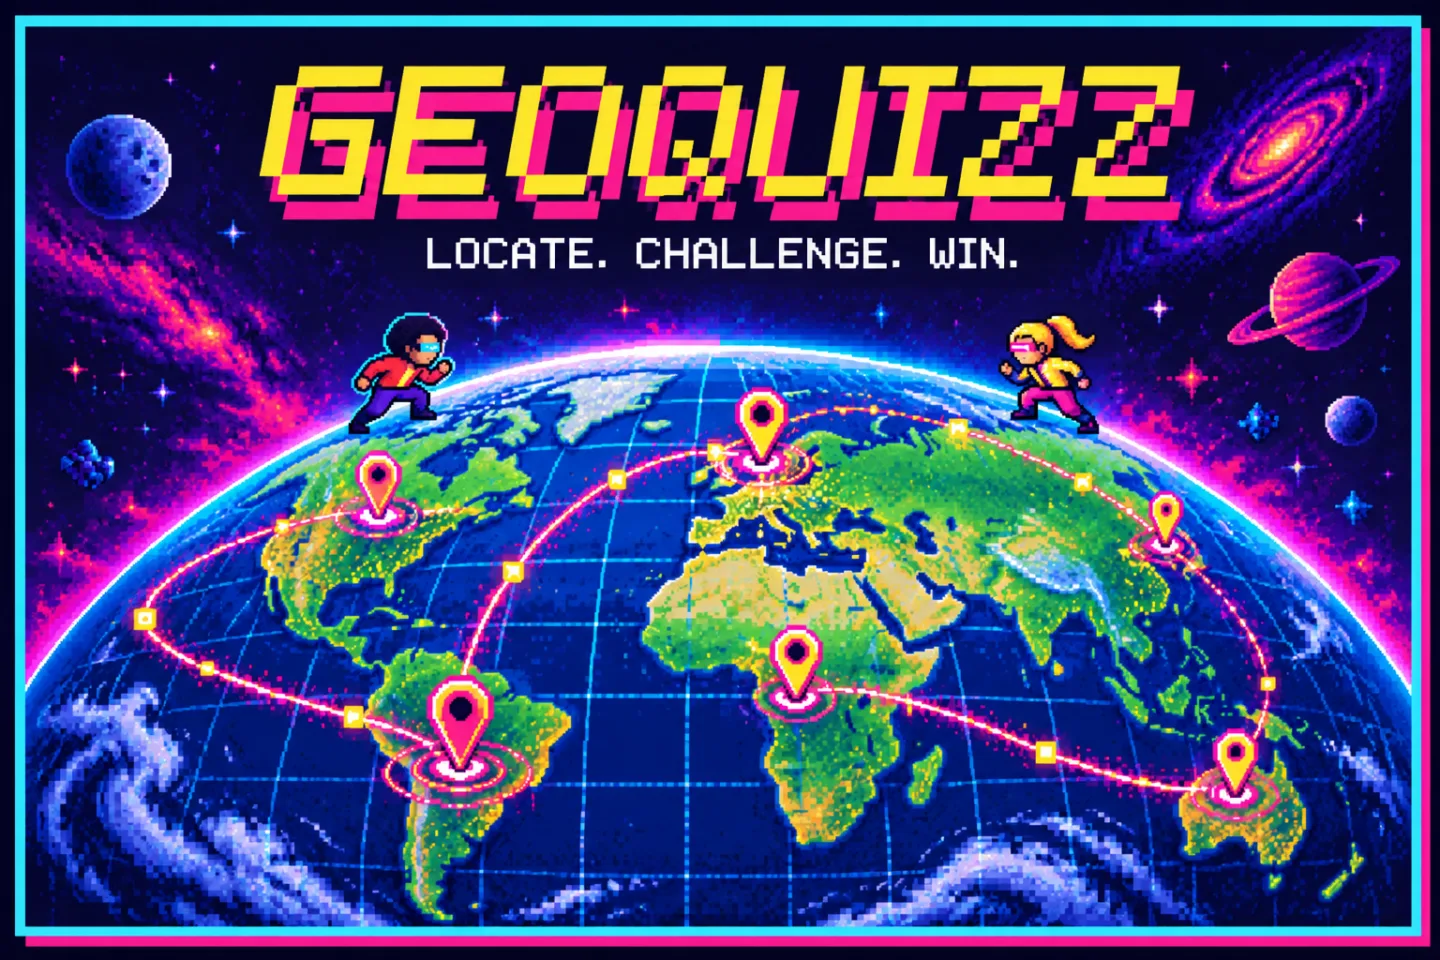
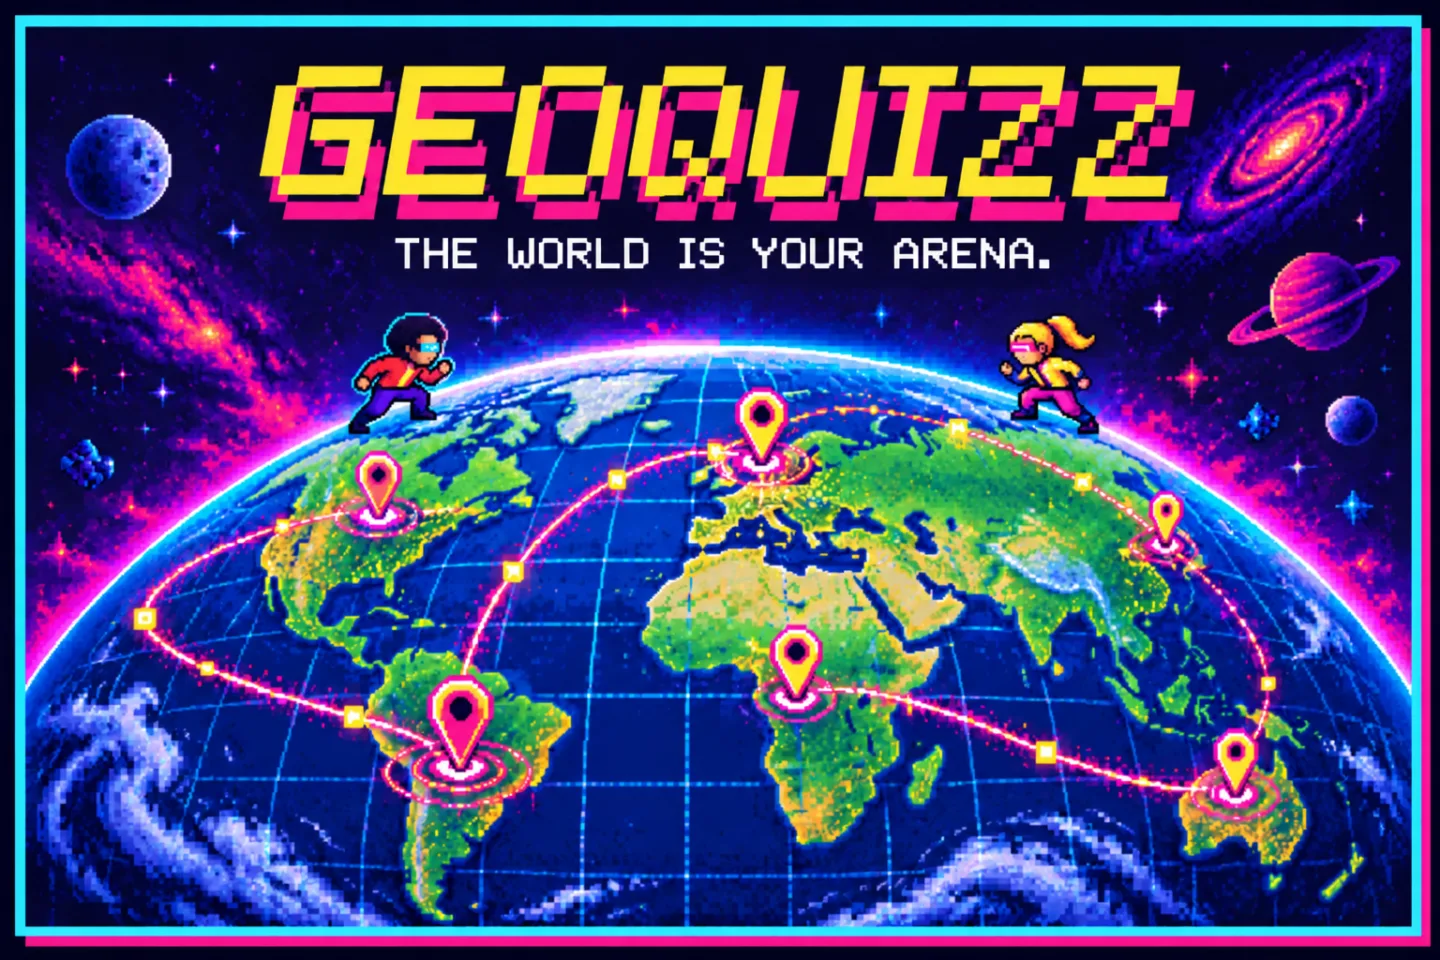
Bread hand-over timing, new splash art, phones sideways
- Bread: binding one block ahead failed when Bread had not reached that
  block yet ("block header for block 85053 not found"). Blocks come every
  3.00 s (measured, ±40 ms) and Bread anchors at the height of its
  pre-approval sync, ~2-3 s after the request arrives, right on a block
  edge. The app now spots each new block with a light header poll, binds
  the next block and hands the request over ~2 s into the current one
  (1 s earlier when it ships notes), so Bread's sync lands mid-block. A
  delay that landed is kept per browser; otherwise 1 s, then 2.7 s.
- Splash art: both heroes now read "The world is your arena." (from
  updated-splash-screens); "Locate. Challenge. Win." stays the 1P title.
- Phones held upright get "Turn your phone sideways: the map is much
  easier to play." Held sideways, the play screen keeps the map beside a
  slim HUD and fits the screen height without scrolling.

60 vitest.

Claude-Session: https://claude.ai/code/session_01QYyiCY9B277ojxnNJRZLyN

diff --git a/web/src/lib/bread.ts b/web/src/lib/bread.ts
@@ -25,7 +25,7 @@ import { shotStorage, encodeStorage, type AccountFelts, type ChallengeStorage } 
 import { SHOT_DEADLINE_INDEX } from "./notes";
 import { randomSeed, type Word4 } from "./quiz";
 import { packAnswers, type Answer } from "./rules";
-import { fmtGeocoin, LAG_CANDIDATES, learnBreadOffset, nextLagIndex, parseAnchorMismatch, submitWithRetry } from "./flow";
+import { fmtGeocoin, learnBreadOffset, nextDelayIndex, parseAnchorMismatch, SEND_DELAYS_MS, submitWithRetry } from "./flow";
 import authVectors from "../../../rules/auth_vectors.json";
 
 /** What the app needs from a signer: Bread's adapter hook, or the local test wallet. */
@@ -62,22 +62,12 @@ export function selfCheckAuthArgs(): boolean {
   });
 }
 
-/**
- * A request builder carrying the auth args Bread's multisig needs, bound to the current tip.
- *
- * Bread anchors the request at ITS sync height when it receives it and rejects the request if
- * that block differs from the bound block (`SummaryAnchorMismatchError`). Testnet makes a block
- * every ~3 s, so the bound block has to be as fresh as possible: sync first, bind the result,
- * submit at once. `submit` retries with a fresh block when Bread still reports the mismatch.
- */
-async function breadBuilder(client: Client, blockOffset: number): Promise<{ builder: TransactionRequestBuilder; boundBlock: number }> {
-  const feeFaucet = await client.feeFaucetId();
-  const boundBlock = (await waitForFreshBlock(client)) + blockOffset;
+/** A request builder carrying the auth args Bread's multisig needs, bound to `boundBlock`. */
+function breadBuilder(boundBlock: number, feeFaucet: AccountId): TransactionRequestBuilder {
   const { elements, commitment } = multisigAuthArgs(boundBlock, randomSeed(), feeFaucet);
   const advice = new AdviceMap();
   advice.insert(commitment, feltArray(elements));
-  const builder = new TransactionRequestBuilder().withAuthArg(commitment).extendAdviceMap(advice).withBlockNumbers([boundBlock]);
-  return { builder, boundBlock };
+  return new TransactionRequestBuilder().withAuthArg(commitment).extendAdviceMap(advice).withBlockNumbers([boundBlock]);
 }
 
 /** The commitment of block `n` as the node reports it (null when the node has no such block yet). */
@@ -120,42 +110,48 @@ export async function waitFor(client: Client, runExclusive: <T>(fn: () => Promis
 
 export type Submitted = { txId: string; noteIds: string[] };
 
+const sleep = (ms: number) => new Promise((r) => setTimeout(r, ms));
+
 /**
- * Syncs until the chain tip advances (or ~6 s pass) and returns the new tip, so the request is
- * bound at the very start of a block's ~3 s lifetime: Bread, which anchors at its own sync height
- * a second or two later, then sees the same block.
+ * Waits for the node's tip to move and returns the new block and when it was seen. A header call
+ * (~60 ms) every 100 ms sees a block within ~0.15 s of its production; testnet makes one every 3 s.
  */
-async function waitForFreshBlock(client: Client): Promise<number> {
-  const start = (await client.syncState()).blockNum();
-  const deadline = Date.now() + 6_000;
-  while (Date.now() < deadline) {
-    await new Promise((r) => setTimeout(r, 250));
-    const now = (await client.syncState()).blockNum();
-    if (now > start) return now;
+async function nextBlock(): Promise<{ block: number; seenAt: number }> {
+  const rpc = new RpcClient(endpoint());
+  try {
+    const start = (await rpc.getBlockHeaderByNumber(undefined)).blockNum();
+    const deadline = Date.now() + 6_000;
+    while (Date.now() < deadline) {
+      await sleep(100);
+      const block = (await rpc.getBlockHeaderByNumber(undefined)).blockNum();
+      if (block > start) return { block, seenAt: Date.now() };
+    }
+    return { block: start, seenAt: Date.now() };
+  } finally {
+    rpc.free();
   }
-  return start;
 }
 
 const ANCHOR_RETRIES = 10;
 
-// The bind lag that last worked in this browser (an index into LAG_CANDIDATES); see flow.ts.
-const LAG_KEY = "gq:bread-lag";
-let lagIndex = (() => {
+// The hand-over delay that last worked in this browser (an index into SEND_DELAYS_MS); see flow.ts.
+const DELAY_KEY = "gq:bread-send-delay";
+let delayIndex = (() => {
   try {
-    return (Number(localStorage.getItem(LAG_KEY)) || 0) % LAG_CANDIDATES.length;
+    return (Number(localStorage.getItem(DELAY_KEY)) || 0) % SEND_DELAYS_MS.length;
   } catch {
     return 0;
   }
 })();
-let lagPending = false;
+let delayPending = false;
 
-/** After a Bread request: did its effect show on chain? Sets the bind lag for the next one. */
+/** After a Bread request: did its effect show on chain? Sets the hand-over delay for the next one. */
 export function reportBreadOutcome(landed: boolean) {
-  if (!lagPending) return;
-  lagPending = false;
-  lagIndex = nextLagIndex(lagIndex, landed);
+  if (!delayPending) return;
+  delayPending = false;
+  delayIndex = nextDelayIndex(delayIndex, landed);
   try {
-    localStorage.setItem(LAG_KEY, String(lagIndex));
+    localStorage.setItem(DELAY_KEY, String(delayIndex));
   } catch {
     /* private window */
   }
@@ -188,16 +184,20 @@ async function submit(
     return requestTransaction(Transaction.createCustomTransaction(address, address, await build(builder), inputNoteIds, importNotes));
   }
   let lastBound = 0;
-  // Bread imports shipped notes before it syncs: one more block
-  const lag = (importNotes?.length ? 1 : 0) + LAG_CANDIDATES[lagIndex];
+  const feeFaucet = await client.feeFaucetId();
+  // Bread imports shipped notes before it syncs: hand over ~1 s earlier
+  const delay = Math.max(0, SEND_DELAYS_MS[delayIndex] - (importNotes?.length ? 1000 : 0));
   const txId = await submitWithRetry(
     async (offset, attempt) => {
       onSubmitAttempt(attempt, ANCHOR_RETRIES);
-      const { builder, boundBlock } = await breadBuilder(client, offset);
+      const { block, seenAt } = await nextBlock();
+      const boundBlock = block + offset;
       lastBound = boundBlock;
-      return requestTransaction(Transaction.createCustomTransaction(address, address, await build(builder), inputNoteIds, importNotes));
+      const tx = Transaction.createCustomTransaction(address, address, await build(breadBuilder(boundBlock, feeFaucet)), inputNoteIds, importNotes);
+      await sleep(seenAt + delay - Date.now());
+      return requestTransaction(tx);
     },
-    lag,
+    1,
     ANCHOR_RETRIES,
     async (e) => {
       const parsed = parseAnchorMismatch(e);
@@ -206,7 +206,7 @@ async function submit(
       return learned;
     },
   );
-  lagPending = true;
+  delayPending = true;
   return txId;
 }
 

diff --git a/web/src/theme.css b/web/src/theme.css
@@ -97,6 +97,7 @@ p { margin: 0 0 12px; }
 .masthead .wallet { display: block; margin: 0; min-height: 44px; padding: 10px 12px; font-size: 12px; max-width: 280px; white-space: nowrap; overflow: hidden; text-overflow: ellipsis; }
 .masthead .sound { background: none; border: 0; padding: 6px 0; font: 12px/1.6 var(--display); text-transform: uppercase; color: var(--cyan); white-space: nowrap; }
 .share { display: flex; flex-wrap: wrap; gap: 4px 0; margin-top: 8px; }
+
 main { max-width: 1440px; margin: 0 auto; padding: 28px 4% 56px; }
 
 /* welcome: full-image attract screen with a blinking start line */
@@ -184,4 +185,33 @@ table.report td:nth-child(2) { text-align: right; color: var(--muted); }
   .panel { padding: 16px; }
   .panel-title { margin: -16px -16px 12px; padding: 8px 16px; }
   .hud .city { font-size: 24px; }
+}
+
+/* phones held upright: suggest landscape, where the map is big enough to aim */
+.rotate-hint { display: none; margin: 0 0 16px; padding: 10px 14px; border: 3px solid var(--yellow); background: var(--void); color: var(--yellow); font: 13px/1.5 var(--display); text-transform: uppercase; text-align: center; }
+@media (orientation: portrait) and (max-width: 640px) { .rotate-hint { display: block; } .welcome-screen .rotate-hint { margin: 16px; } }
+/* phones held sideways: map beside a slim HUD, everything inside the screen height */
+@media (orientation: landscape) and (max-height: 500px) {
+  .masthead { padding: 6px 12px; gap: 12px; flex-wrap: nowrap; }
+  .masthead .brand img { width: 110px; }
+  .masthead nav { gap: 12px; }
+  .masthead nav button, .masthead .sound { font-size: 10px; padding: 2px 0; }
+  .masthead .wallet { min-height: 32px; padding: 4px 8px; font-size: 10px; max-width: 150px; }
+  main { padding: 8px 12px 16px; }
+  .play h1 { font-size: 18px; margin-bottom: 4px; text-shadow: 2px 2px 0 var(--pink); }
+  .chips { margin-bottom: 6px; }
+  .chips span { width: 20px; height: 20px; font-size: 10px; }
+  .play .cols { display: grid; grid-template-columns: auto 190px; gap: 10px; }
+  .play .cols .hud { order: 0; padding: 10px; }
+  .play .map-frame { padding: 4px; width: fit-content; }
+  .play .world-map { height: min(calc(100dvh - 150px), calc((100vw - 240px) / 2)); width: auto; }
+  .play .banner { font-size: 14px; padding: 6px 10px; margin-top: 6px; }
+  .hud .eyebrow { font-size: 10px; margin-bottom: 2px; }
+  .hud .city { font-size: 16px; }
+  .hud .country { margin-bottom: 6px; font-size: 12px; }
+  .hud .clock, .hud .total { font-size: 20px; margin-bottom: 6px; }
+  .hud .bar { margin: 4px 0 8px; }
+  .hud .rival { margin-bottom: 8px; }
+  .hud .rival img { width: 32px; }
+  .hud .rival .bubble { font-size: 10px; padding: 4px 6px; }
 }

diff --git a/web/src/lib/flow.ts b/web/src/lib/flow.ts
@@ -88,14 +88,17 @@ export async function learnBreadOffset(
 }
 
 /**
- * How many blocks ahead of a fresh block to bind a Bread request. Bread 1.17.1 anchors it at its
- * own sync height when its queue runs it, after approval, and fails it unless that is the bound
- * block; the failure never reaches the dApp. Measured on testnet 2026-10-09: the anchor landed one
- * block after a fresh-block bind twice (both failed), on the bound block once (it went through).
- * The app keeps a lag that worked and tries the next candidate after one that never showed on chain.
+ * When to hand a Bread request over, in ms after the app sees a new block N; the request binds
+ * block N + 1. Bread 1.17.1 fails a dApp request unless the bound block is the height its
+ * pre-approval check synced to (its queue anchors there after approval, without syncing again),
+ * and the dApp never hears of the failure. Measured 2026-10-09: blocks every 3.00 s (±40 ms);
+ * sending right at a new block, Bread synced to that block once and to the next one three times,
+ * so its sync lands ~2-3 s after the hand-over, on a block edge. Handing over ~2 s into block N
+ * puts it in the middle of block N + 1. A delay that landed is kept; after one that never showed
+ * on chain the next candidate is tried (earlier, then later), remembered per browser.
  */
-export const LAG_CANDIDATES = [1, 0, 2];
-export const nextLagIndex = (index: number, landed: boolean) => (landed ? index : (index + 1) % LAG_CANDIDATES.length);
+export const SEND_DELAYS_MS = [2000, 1000, 2700];
+export const nextDelayIndex = (index: number, landed: boolean) => (landed ? index : (index + 1) % SEND_DELAYS_MS.length);
 
 /**
  * The wallet took the request but the chain never showed its effect. Bread answers a dApp as soon

diff --git a/web/src/lib/__tests__/flow.test.ts b/web/src/lib/__tests__/flow.test.ts
@@ -5,9 +5,9 @@ import type { ChallengeStorage } from "../notes";
 import {
   shotRefusal,
   isAnchorMismatch,
-  LAG_CANDIDATES,
   learnBreadOffset,
-  nextLagIndex,
+  nextDelayIndex,
+  SEND_DELAYS_MS,
   myOpenShotsOn,
   fmtGeocoin,
   outcomeText,
@@ -181,13 +181,13 @@ describe("a pasted code", () => {
   });
 });
 
-describe("the bind lag for Bread", () => {
-  it("starts one block ahead, keeps a lag that landed, and cycles through the others on failure", () => {
-    expect(LAG_CANDIDATES[0]).toBe(1);
-    expect(nextLagIndex(0, true)).toBe(0);
+describe("when to hand a request to Bread", () => {
+  it("starts ~2 s into a block, keeps a delay that landed, tries earlier then later on failure", () => {
+    expect(SEND_DELAYS_MS[0]).toBe(2000);
+    expect(nextDelayIndex(0, true)).toBe(0);
     const tried = [0];
-    for (let i = 0; i < 3; i++) tried.push(nextLagIndex(tried.at(-1)!, false));
-    expect(tried.map((i) => LAG_CANDIDATES[i])).toEqual([1, 0, 2, 1]);
+    for (let i = 0; i < 3; i++) tried.push(nextDelayIndex(tried.at(-1)!, false));
+    expect(tried.map((i) => SEND_DELAYS_MS[i])).toEqual([2000, 1000, 2700, 2000]);
   });
 });
 

diff --git a/web/src/components/Shell.tsx b/web/src/components/Shell.tsx
@@ -41,7 +41,10 @@ export function Shell({
           {walletLabel ?? "Connect wallet"}
         </button>
       </header>
-      <main>{children}</main>
+      <main>
+        <p className="rotate-hint">Turn your phone sideways: the map is much easier to play.</p>
+        {children}
+      </main>
     </>
   );
 }

diff --git a/web/src/components/Welcome.tsx b/web/src/components/Welcome.tsx
@@ -9,6 +9,7 @@ export function Welcome({ onStart }: { onStart: () => void }) {
           Click to start
         </span>
       </button>
+      <p className="rotate-hint">Turn your phone sideways: the map is much easier to play.</p>
     </div>
   );
 }
